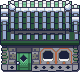
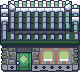
Bug fixes and working on PersonInfoPanel

Changed region(s): [[0.725, 0.6944, 0.875, 0.8333], [0.525, 0.6944, 0.675, 0.8333], [0.25, 0.75, 0.35, 0.8611]]

diff --git a/src/cs201/gui/configPanels/PersonInfoPanel.java b/src/cs201/gui/configPanels/PersonInfoPanel.java
@@ -13,8 +13,7 @@ import javax.swing.UIManager;
 import javax.swing.border.TitledBorder;
 
 import cs201.agents.PersonAgent;
-import java.awt.Component;
-import javax.swing.Box;
+import javax.swing.JCheckBox;
 
 @SuppressWarnings("serial")
 public class PersonInfoPanel extends JPanel {
@@ -26,10 +25,10 @@ public class PersonInfoPanel extends JPanel {
 	private JTextField wakeupTextField;
 	private JTextField sleepTextField;
 	private JTextField actionTextField;
-	private JTextField carTextField;
 	private JTextField jobTextField;
 	private JTextField workTimeTextField;
 	private JTextField homeTextField;
+	private JCheckBox carCheckBox;
 
 	/**
 	 * Create the panel.
@@ -243,7 +242,7 @@ public class PersonInfoPanel extends JPanel {
 		GridBagLayout gbl_centerPanel = new GridBagLayout();
 		gbl_centerPanel.columnWidths = new int[] {0, 0};
 		gbl_centerPanel.rowHeights = new int[]{0, 0, 0, 0, 0};
-		gbl_centerPanel.columnWeights = new double[]{0.0, 1.0, Double.MIN_VALUE};
+		gbl_centerPanel.columnWeights = new double[]{0.0, 1.0};
 		gbl_centerPanel.rowWeights = new double[]{0.0, 0.0, 0.0, 0.0, Double.MIN_VALUE};
 		centerPanel.setLayout(gbl_centerPanel);
 		
@@ -256,18 +255,16 @@ public class PersonInfoPanel extends JPanel {
 		gbc_lblHasCar.gridy = 0;
 		centerPanel.add(lblHasCar, gbc_lblHasCar);
 		
-		carTextField = new JTextField();
-		carTextField.setEditable(false);
-		carTextField.setFocusable(false);
-		lblHasCar.setLabelFor(carTextField);
-		carTextField.setFont(new Font("SansSerif", Font.PLAIN, 11));
-		GridBagConstraints gbc_carTextField = new GridBagConstraints();
-		gbc_carTextField.insets = new Insets(0, 0, 5, 0);
-		gbc_carTextField.fill = GridBagConstraints.HORIZONTAL;
-		gbc_carTextField.gridx = 1;
-		gbc_carTextField.gridy = 0;
-		centerPanel.add(carTextField, gbc_carTextField);
-		carTextField.setColumns(10);
+		carCheckBox = new JCheckBox("");
+		carCheckBox.setFocusable(false);
+		carCheckBox.setEnabled(false);
+		lblHasCar.setLabelFor(carCheckBox);
+		GridBagConstraints gbc_carCheckBox = new GridBagConstraints();
+		gbc_carCheckBox.anchor = GridBagConstraints.WEST;
+		gbc_carCheckBox.insets = new Insets(0, 0, 5, 0);
+		gbc_carCheckBox.gridx = 1;
+		gbc_carCheckBox.gridy = 0;
+		centerPanel.add(carCheckBox, gbc_carCheckBox);
 		
 		JLabel lblJob = new JLabel("Job:");
 		lblJob.setFont(new Font("SansSerif", Font.PLAIN, 11));
@@ -313,7 +310,7 @@ public class PersonInfoPanel extends JPanel {
 		centerPanel.add(workTimeTextField, gbc_workTimeTextField);
 		workTimeTextField.setColumns(10);
 		
-		JLabel lblHasHome = new JLabel("Has Home:");
+		JLabel lblHasHome = new JLabel("Home:");
 		lblHasHome.setFocusable(false);
 		lblHasHome.setFont(new Font("SansSerif", Font.PLAIN, 11));
 		GridBagConstraints gbc_lblHasHome = new GridBagConstraints();
@@ -355,7 +352,7 @@ public class PersonInfoPanel extends JPanel {
 		this.wakeupTextField.setText("");
 		this.sleepTextField.setText("");
 		this.actionTextField.setText("");
-		this.carTextField.setText("");
+		this.carCheckBox.setSelected(false);
 		this.jobTextField.setText("");
 		this.workTimeTextField.setText("");
 		this.homeTextField.setText("");
@@ -371,13 +368,13 @@ public class PersonInfoPanel extends JPanel {
 		this.hungerTextField.setText(p.getHungerLevel() > PersonAgent.STARVING ? "Starving" : p.getHungerLevel() > PersonAgent.HUNGRY ? "Hungry" : "Full");
 		this.locationTextField.setText(p.getCurrentLocation() == null ? "None" : p.getCurrentAction() == null ? "In City" : p.getCurrentLocation().toString());
 		this.stateTextField.setText(p.getState().toString());
-		this.wakeupTextField.setText(p.getWakeupTime().toString());
-		this.sleepTextField.setText(p.getSleepTime().toString());
+		this.wakeupTextField.setText(p.getWakeupTime().toString().trim());
+		this.sleepTextField.setText(p.getSleepTime().toString().trim());
 		this.actionTextField.setText(p.getCurrentAction() == null ? "None" : p.getCurrentAction().toString());
-		this.carTextField.setText(p.getVehicle() == null ? "No" : "Yes");
+		this.carCheckBox.setSelected(p.getVehicle() != null);
 		this.jobTextField.setText(p.getJob() == null ? "None" : p.getJob().toString());
-		this.workTimeTextField.setText(p.getJob() == null ? "N/A" : p.getWorkTime() == null ? "Not Set" : p.getWorkTime().toString());
-		this.homeTextField.setText(p.getHome() == null ? "No" : "Yes");
+		this.workTimeTextField.setText(p.getJob() == null ? "N/A" : p.getWorkTime() == null ? "Not Set" : p.getWorkTime().toString().trim());
+		this.homeTextField.setText(p.getHome() == null ? "None" : p.getHome().toString());
 	}
 
 }

diff --git a/src/cs201/agents/PersonAgent.java b/src/cs201/agents/PersonAgent.java
@@ -16,7 +16,6 @@ import cs201.interfaces.agents.transit.Vehicle;
 import cs201.roles.Role;
 import cs201.roles.marketRoles.MarketManagerRole.ItemRequest;
 import cs201.roles.transit.PassengerRole;
-import cs201.roles.transit.PassengerRole.PassengerState;
 import cs201.structures.Structure;
 import cs201.structures.residence.Residence;
 import cs201.trace.AlertLog;
@@ -282,7 +281,7 @@ public class PersonAgent extends Agent implements Person {
 		}
 		
 		// If you don't even have a home to return to
-		if (state == PersonState.Awake && passengerRole.state != PassengerState.Roaming) {
+		if (state == PersonState.Awake /*&& passengerRole.state != PassengerState.Roaming*/) {
 			this.currentAction = null;
 			passengerRole.setActive(true);
 			passengerRole.msgStartRoaming();
